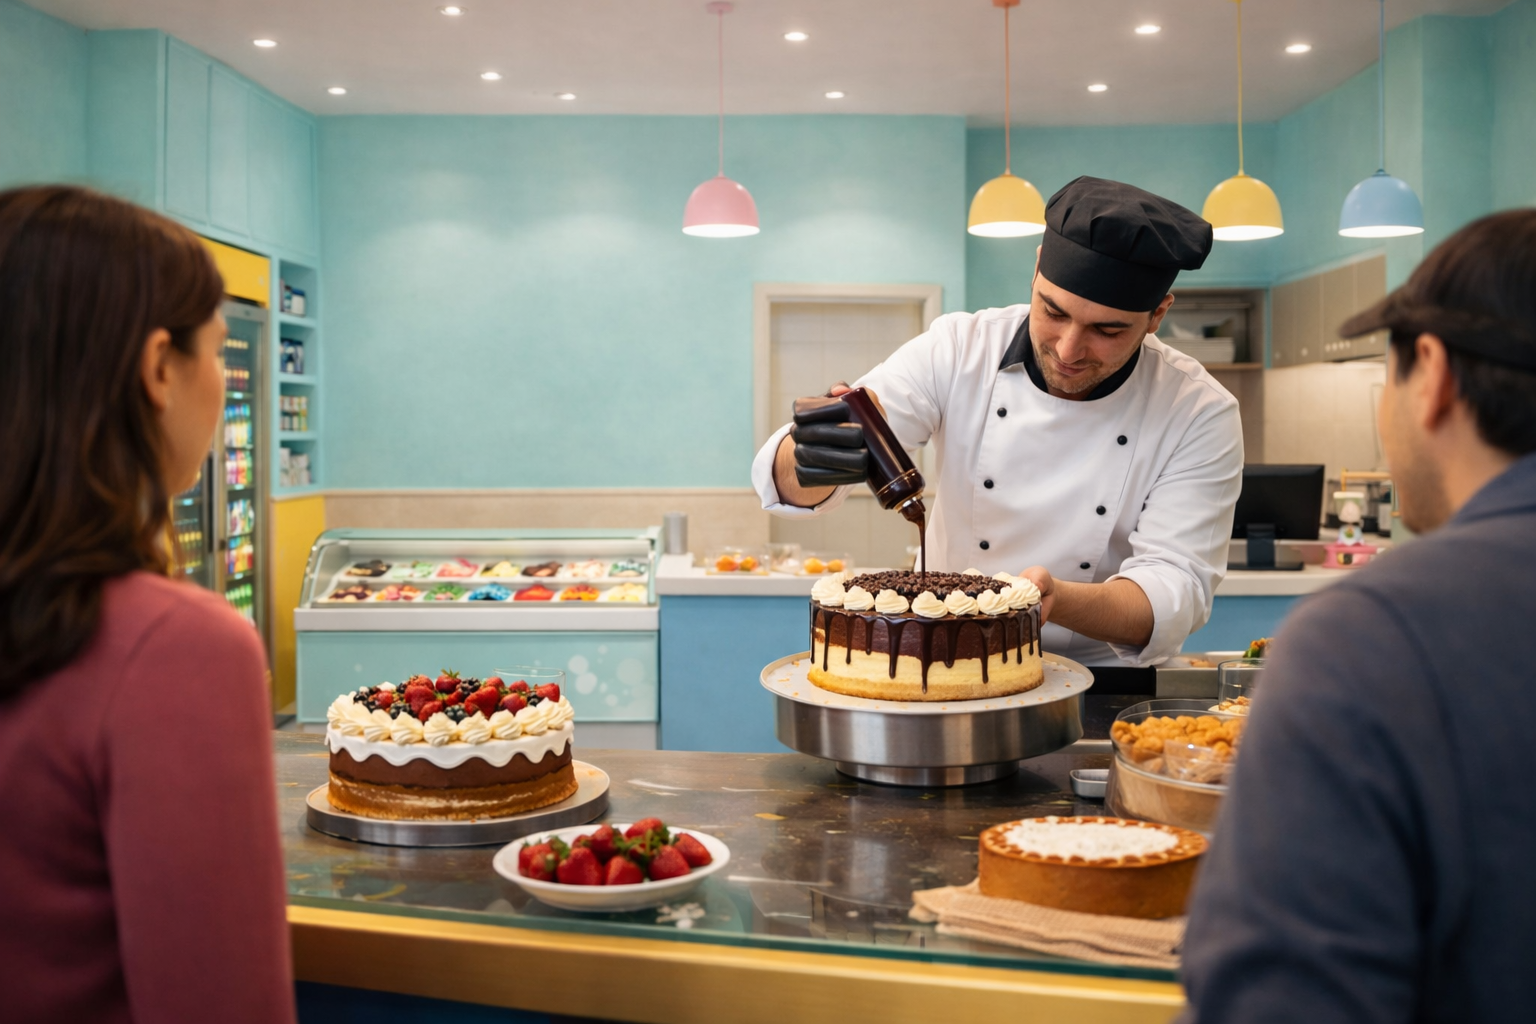
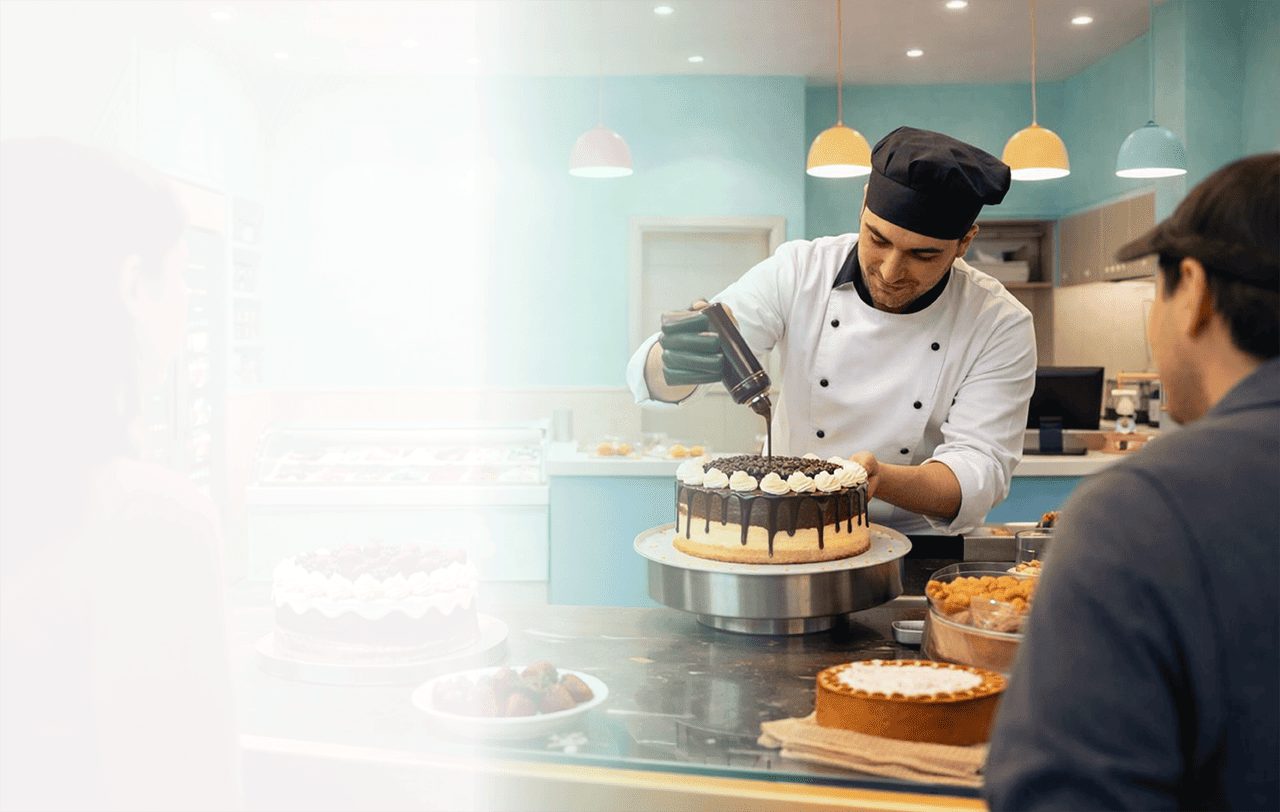
img fixes and font

diff --git a/css/style.css b/css/style.css
@@ -37,13 +37,7 @@ body {
 
   height: 100vh;
 
-  background-image:
-    linear-gradient(to right,
-      rgba(255, 255, 255, 0.95) 30%,
-      rgba(255, 255, 255, 0.65) 50%,
-      rgba(255, 255, 255, 0.1) 70%,
-      rgba(255, 255, 255, 0) 100%),
-    url("../images/chef.png");
+  background-image: url("../images/chef.png");
 
   background-size: cover;
   background-position: center;
@@ -55,29 +49,17 @@ body {
 }
 
 .mission {
-  background-image:
-    linear-gradient(to bottom,
-      rgba(255, 255, 255, 0.50) 30%,
-      rgba(255, 255, 255, 0) 50%,
-      rgba(255, 255, 255, 0) 70%,
-      rgba(255, 255, 255, 0) 100%),
-    url("../images/mission/banner.jpg");
-  background-position: top;
+  background-image: url("../images/mission/banner.jpg");
+  background-position: center;
   background-repeat: no-repeat;
-  background-size: 100% 180%;
+  background-size: cover;
 }
 
 .contact-us {
-  background-image:
-    linear-gradient(to bottom,
-      rgba(255, 255, 255, 0.50) 30%,
-      rgba(255, 255, 255, 0) 50%,
-      rgba(255, 255, 255, 0) 70%,
-      rgba(255, 255, 255, 0) 100%),
-    url("../images/contact-us/banner.png");
+  background-image: url("../images/contact-us/banner.jpg");
   background-position: center;
   background-repeat: no-repeat;
-  background-size: 100% 100%;
+  background-size: cover;
 }
 
 .text-theme-primary {
@@ -113,17 +95,17 @@ body {
 
   list-style: none;
   display: flex;
-  gap: 50px;
+  gap: 40px;
   font-weight: bold;
   margin-right: auto;
-  margin-left: 150px;
+  margin-left: 80px;
   font-size: 18px;
 }
 
 .nav-links li {
   cursor: pointer;
   position: relative;
-  font-family: 'Poppins';
+  /* font-family: 'Poppins'; */
   font-size: 22px;
   font-weight: 600;
 }
@@ -185,19 +167,21 @@ body {
 
 /* About section */
 .about-section {
-  background: linear-gradient(to bottom, #d3fff7 0%, #d3fff7 45%, rgba(188, 222, 215, 0.85) 60%, rgba(188, 222, 215, 0.5) 75%, rgba(188, 222, 215, 0) 100%), url("../images/about-cake.png");
-  background-size: cover;
-  background-position: center;
-  background-repeat: no-repeat;
-  padding-top: 40px;
-  padding-bottom: 60%;
+  /* background: linear-gradient(to bottom, #d3fff7 0%, #d3fff7 45%, rgba(188, 222, 215, 0.85) 60%, rgba(188, 222, 215, 0.5) 75%, rgba(188, 222, 215, 0) 100%), url("../images/about-cake.jpg"); */
+  background: url("../images/about-cake.jpg");
+  background-size: 100% 100%;
+    background-position: center;
+    background-repeat: no-repeat;
+    padding-top: 40px;
+    padding-bottom: 340px;
 }
 
 .mission-section {
-  background: linear-gradient(to bottom, #d3fff7 0%, #d3fff7 45%, rgba(188, 222, 215, 0.85) 60%, rgba(188, 222, 215, 0.5) 75%, rgba(188, 222, 215, 0) 100%), url("../images/mission/mission.png");
-  background-size: cover;
-  background-position: top;
-  background-repeat: no-repeat;
+  /* background: linear-gradient(to bottom, #d3fff7 0%, #d3fff7 45%, rgba(188, 222, 215, 0.85) 60%, rgba(188, 222, 215, 0.5) 75%, rgba(188, 222, 215, 0) 100%), url("../images/mission/mission.png"); */
+  background:  url("../images/mission/mission.jpg");
+  background-size: 100% 100%;
+    background-position: center;
+    background-repeat: no-repeat;
 }
 
 /* TITLE */
@@ -225,8 +209,8 @@ body {
 .vission-below-section {
   background: url('../images/mission/vision.jpg');
   background-repeat: no-repeat;
-  padding-bottom: 600px;
-  background-size: 100% 200%;
+  padding-bottom: 380px;
+  background-size: 100% 100%;
   background-position: center;
 }
 
@@ -236,14 +220,23 @@ body {
 
 .mission-below-section .left {
   padding: 60px;
-}
-
-.mission-below-section .right {
+  font-size: 18px;
   background: url('../images/mission/mission-right.jpg');
   background-repeat: no-repeat;
   background-size: 100% 100%;
   background-position: center;
 }
+
+.mission-below-section .left-content {
+  width: 50%;
+}
+
+/* .mission-below-section .right {
+  background: url('../images/mission/mission-right.jpg');
+  background-repeat: no-repeat;
+  background-size: 100% 100%;
+  background-position: center;
+} */
 
 .container {
   max-width: 900px;
@@ -297,7 +290,7 @@ body {
 
 .dream {
   background: url("../images/dream.jpg");
-  height: 1000px;
+  height: 530px;
   display: flex;
   /* align-items: center; */
   justify-content: center;
@@ -306,7 +299,6 @@ body {
   background-size: cover;
   background-repeat: no-repeat;
   background-position: center;
-  margin-bottom: -400px;
 }
 
 .social-icon {
@@ -364,8 +356,8 @@ body {
   background: url("../images/cupcake.jpg");
   background-repeat: no-repeat;
   padding: 20px 0 15rem 0;
-  background-size: 100% 112%;
-  background-position: top;
+  background-size: 100% 100%;
+  background-position: center;
 }
 
 .featured {
@@ -481,10 +473,13 @@ body {
   color: white;
 }
 
-@media(max-width:840px) {
+@media(max-width:915px) {
   .nav-links {
     gap: 15px;
     margin-right: 0;
+  }
+  .nav-links li {
+    font-size: 16px;
   }
 }
 
@@ -500,6 +495,10 @@ body {
 
   .about-section {
     padding-bottom: 300px;
+  }
+
+  .vission-section {
+    padding-bottom: 40px;
   }
 
   .hero {
@@ -519,6 +518,15 @@ body {
   .mission-below-section .right {
     height: 550px;
   }
+
+  .mission-below-section .left {
+    background: none;
+    padding: 40px;
+  }
+  .mission-below-section .left-content {
+    width: 100%;
+  }
+  
 
 }
 

diff --git a/mission-vision.html b/mission-vision.html
@@ -63,8 +63,8 @@
 
   <section class="about-section mission-section">
     <div class="container text-center">
-      <h2 class="about-title">Our mission</h2>
-      <div class="about-text">
+      <h2 class="about-title font-sansita-semibold">Our mission</h2>
+      <div class="about-text font-inter-regular">
         <p>At Live Vibe, our mission is to redefine the bakery experience by standing firmly against stale cakes and snacks and promoting a culture of absolute freshness. We believe that food should always be fresh, flavorful, and prepared with care. Our guiding motto, “Fresh Cake, Pastry & Snacks,” reflects our commitment to delivering products that are made fresh every day using natural fresh fruit extracts and carefully selected premium ingredients. Every cake, pastry, and snack we create is designed to bring authentic taste, vibrant flavor, and high quality to our customers. </p>
         
         <p>We are passionate about creating not just desserts but memorable experiences. Through our unique live cake preparation, customers can witness the creativity, dedication, and craftsmanship behind every product. This transparent and engaging approach allows our customers to see the freshness and quality that define the Live Vibe brand. Our goal is to make every visit exciting, interactive, and full of delightful moments where customers feel connected to the food they enjoy.</p>
@@ -78,23 +78,25 @@
 
   <section class="mission-below-section">
 
-    <div class="row m-0">
-        <div class="col-12 col-md-6 left">
+    <!-- <div class="row m-0"> -->
+        <div class="left font-inter-regular">
+          <div class="left-content">
             <p>At Live Vibe, we strongly believe that freshness builds trust. By refusing to serve stale products and maintaining strict quality standards, we ensure that every item we offer reflects our promise of excellence. From selecting ingredients to final presentation, we focus on maintaining purity, hygiene, and outstanding taste in every bite. Our cakes and pastries are not just bakery items—they are expressions of creativity, care, and dedication to freshness.</p>
             <p>Our mission also extends beyond serving customers; we aim to create a brand that represents innovation and opportunity in the bakery industry. Through our growing franchise network, we support passionate entrepreneurs and help them build successful businesses under the trusted Live Vibe brand. By sharing our knowledge, systems, and quality standards, we empower our partners to grow while maintaining the freshness and vibrant experience that our customers love.</p>
             <p><b>Ultimately, our mission is to make Live Vibe – Live Cake Shop a symbol of freshness, creativity, and joyful celebration. We strive to turn every cake, pastry, and snack into a moment of happiness and every customer visit into a memorable experience filled with flavor, trust, and the vibrant energy of Live Vibe.</b></p>
+          </div>
         </div>
-        <div class="col-12 col-md-6 right"></div>
+        <!-- <div class="right"></div> -->
 
-    </div>
+    <!-- </div> -->
 
   </section>
 
   <section class="about-section vission-section">
     <div class="container">
-      <h1 class="about-title text-center">Our vision</h1>
+      <h1 class="about-title text-center font-sansita-semibold">Our vision</h1>
       
-      <div class="about-content text-center">
+      <div class="about-content text-center font-inter-regular">
         <p>At Live Vibe, our vision is to become a leading and trusted brand in the world of fresh and innovative cakes and pastries. We aim to redefine the bakery experience by combining natural fresh fruit extracts, premium ingredients, and a unique live cake preparation that customers can see and enjoy. </p>
         
         <p>we also believe that the true strength of a brand lies in the success of its partners. Our franchise vision is built on the idea of growing together, creating opportunities for passionate entrepreneurs, and expanding a bakery brand that stands for freshness, innovation, and customer experience. We aim to build a strong network of franchise partners who share our commitment to serving fresh cakes, pastries, and snacks, while maintaining the unique live cake concept that defines the spirit of Live Vibe.</p>
@@ -109,7 +111,7 @@
   <section class="about-section vission-below-section">
     <div class="container">
       
-      <div class="about-content text-center">
+      <div class="about-content text-center font-inter-regular">
         <p>At Live Vibe, we see every franchise partner as part of our extended family. Together, we aim to expand the vibrant spirit of fresh baking, live cake experiences, and joyful celebrations into more communities. Our vision is to create a network where the success of each franchise contributes to the strength of the entire brand, building a future where Live Vibe becomes a trusted name for fresh cakes, pastries, and snacks across many cities and regions. </p>
         
         <p><b>Our ultimate vision is to make Live Vibe a symbol of freshness, creativity, celebration, and successful partnerships.</b></p>

diff --git a/contact-us.html b/contact-us.html
@@ -58,7 +58,7 @@
 
         <div class="col-lg-6">
 
-          <h1 class="contact-title"><b>Get in touch</b></h1>
+          <h1 class="contact-title font-sansita-semibold"><b>Get in touch</b></h1>
 
           <p class="contact-subtitle">
             We’d love to hear from you. Please fill out this form.
